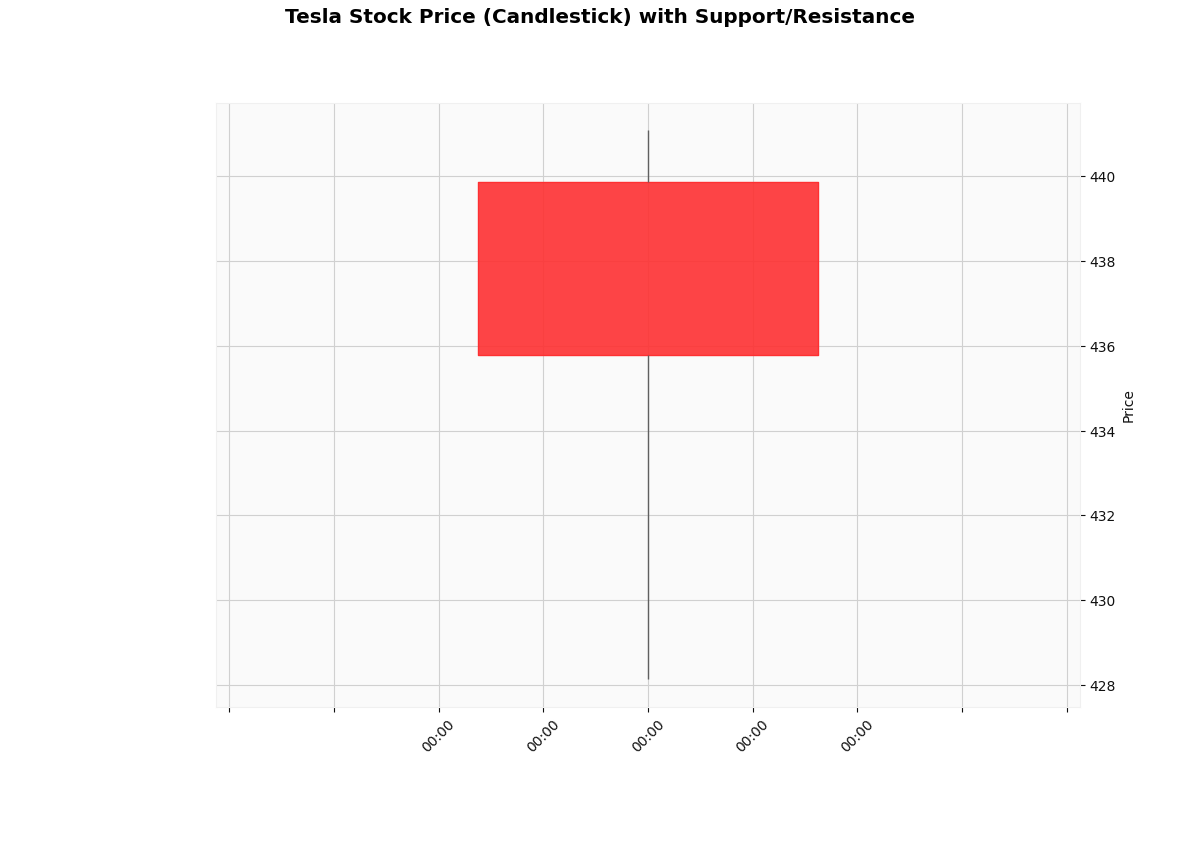
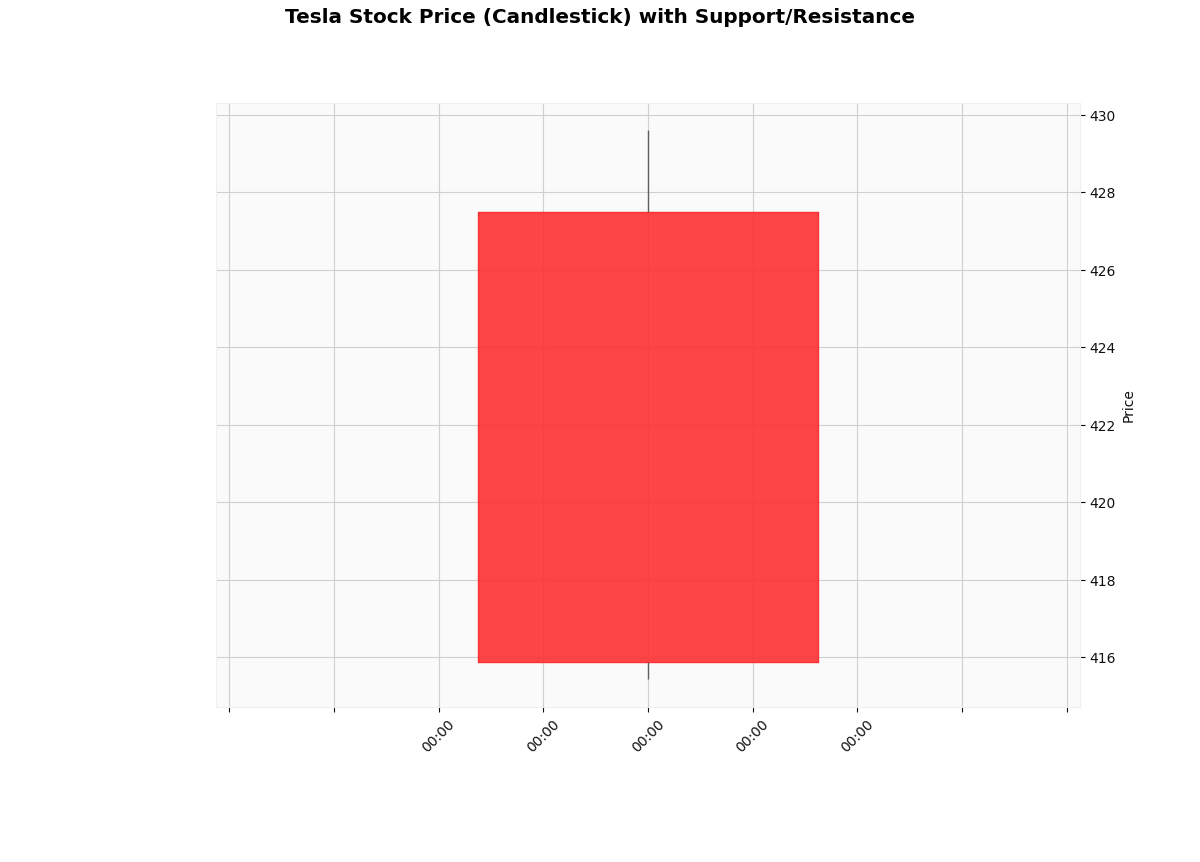
Daily update: Tesla stock chart and news

diff --git a/README.md b/README.md
@@ -69,7 +69,8 @@ For automated daily updates on GitHub, you need to set your API keys as **GitHub
 
 ## Tesla Stock Chart
 
-![Tesla Stock Chart](charts/tesla_stock_chart.png?20260601192736)
+![Tesla Stock Chart](charts/tesla_stock_chart.png?20260602181314)
+
 
 
 
@@ -367,7 +368,7 @@ _Source: ir.tesla.com - May 15, 2013 ... PALO ALTO, CA -- (Marketwired) -- 05/15
 
 **[Tesla Motors Announces Major European Distribution Center in the ...](https://ir.tesla.com/press-release/tesla-motors-announces-major-european-distribution-center)**
 
-_Source: ir.tesla.com - Dec 12, 2012 ... The new Tesla European Distribution Center will lead to the creation of approximately 50 jobs in the next few years. Tesla's decision to locate ..._
+_Source: ir.tesla.com - Dec 12, 2012 ... This new facility will serve as Tesla's European service and parts headquarters, as well as the final assembly and distribution point for Model S vehicles sold ..._
 
 **[Tesla Motors, Inc. Announces Pricing of Its Follow-On Offering](https://ir.tesla.com/press-release/tesla-motors-inc-announces-pricing-its-follow-offering)**
 